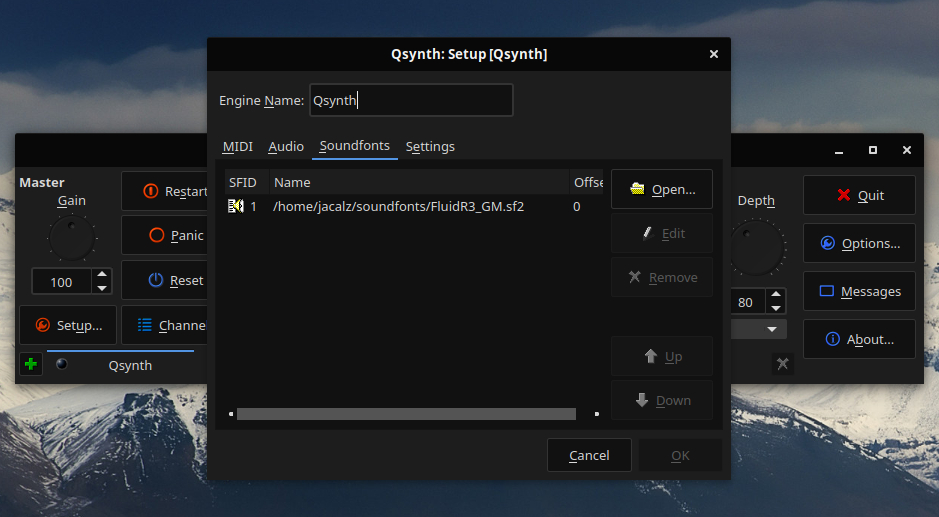
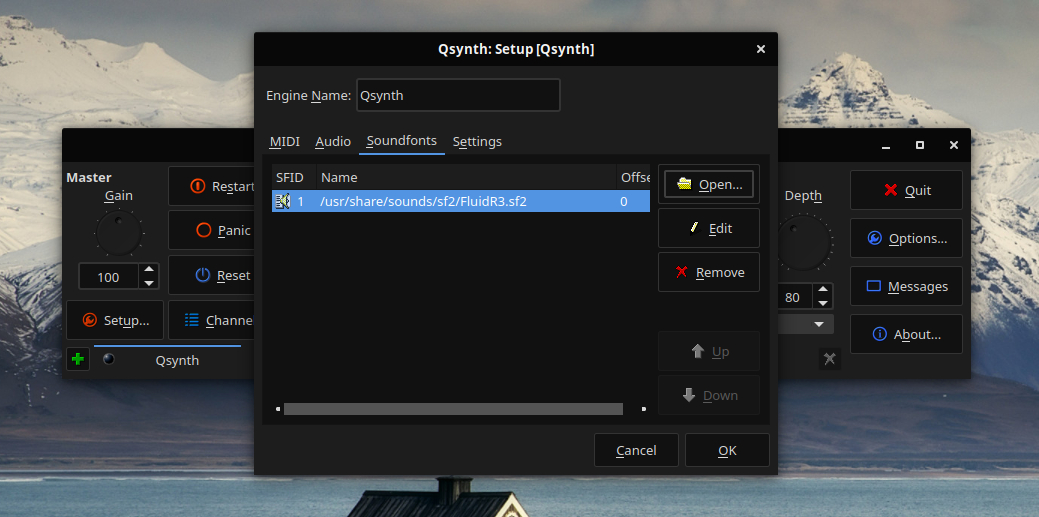
Update midi-keyboard docs to use fluid-soundfont from repo
I have gotten the package for fluid-soundfont approved and added to the
software repo and thus this article can be updated to simplify things
for the users.

diff --git a/hardware/midi-keyboard/en.md b/hardware/midi-keyboard/en.md
@@ -1,6 +1,6 @@
 +++
 title = "Using USB connected MIDI Keyboards"
-lastmod = "2019-04-14T11:20:00+01:00"
+lastmod = "2019-07-14T21:49:00+02:00"
 +++
 # Using USB connected MIDI Keyboards
 
@@ -8,24 +8,19 @@ These instructions will guide you through how to set up and use a USB-connected 
 
 ## Installing required software
 
-First we'll need to install `qsynth` and `qjackctl` using the following command:
+We will need to install three packages in order to use the keyboard:
+
+1. `qsynth` - A frontend for fluidsynth
+2. `qjackctl` - A controller for the JACK audio server
+3. `fluid-soundfont` - An open source soundfont to use with fluidsynth
 
 ``` bash
-sudo eopkg it qsynth qjackctl
+sudo eopkg it qsynth qjackctl fluid-soundfont
 ```
 
-Then we want to install a soundfont in order to get sounds and instruments that play when you press the keys on the keyboard.
+## Setting up the soundfont in qsynth
 
-``` bash
-mkdir -p $HOME/soundfonts
-wget http://http.debian.net/debian/pool/main/f/fluid-soundfont/fluid-soundfont_3.1.orig.tar.gz -O $HOME/soundfonts/fluid-soundfont.tar.gz
-cd $HOME/soundfonts && tar xvf fluid-soundfont.tar.gz fluid-soundfont-3.1/FluidR3_GM.sf2 --strip=1
-rm fluid-soundfont.tar.gz
-```
-
-## Setting up the soundfonts in qsynth
-
-In order to use the soundfonts we need to open up `qsynth` and set the soundfont `FluidR3_GM.sf2` (or any other soundfont) to be used. You do this by pressing `Setup...` and navigating to `Soundfonts`. In there you just click open and select your soundfont (should be placed in `~/soundfonts/`).
+In order to use the soundfont, we need to open up `qsynth` and set the soundfont. For the purposes of this article, it would be `FluidR3.sf2`, however any other soundfont should work fine too. You set the soundfont by clicking on `Setup...` and navigating to `Soundfonts`. There you just need click `Open...` and navigate to the soundfont of your liking. The soundfont that we will be using will be placed in `/usr/share/sounds/sf2/` by default.
 
 {{< altimg "qsynth-soundfont.jpg" "help-center/hardware/midi-keyboard/" >}}
 
